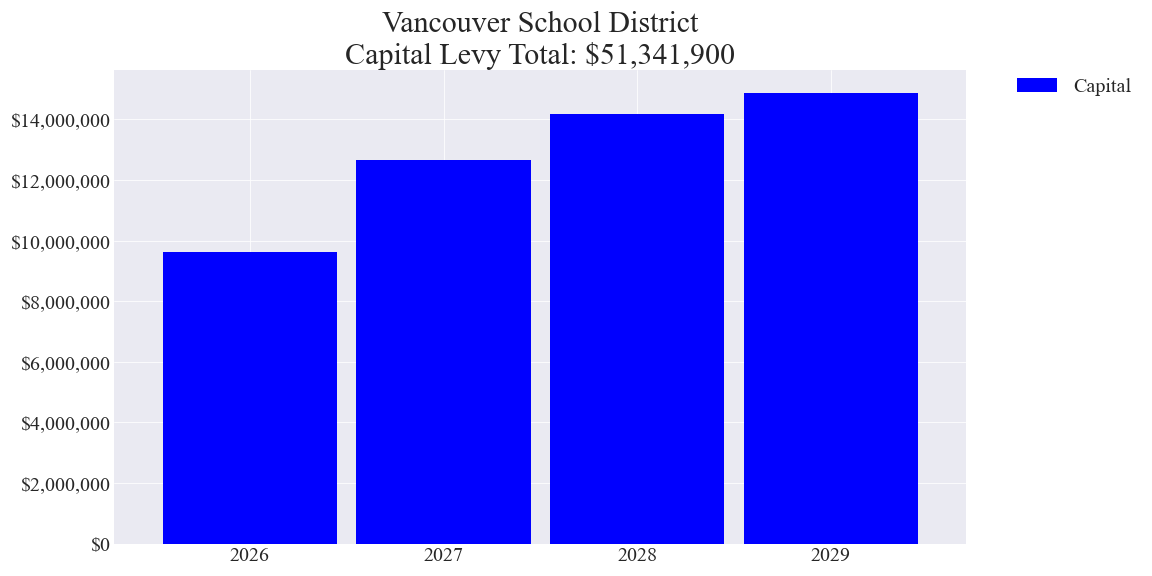
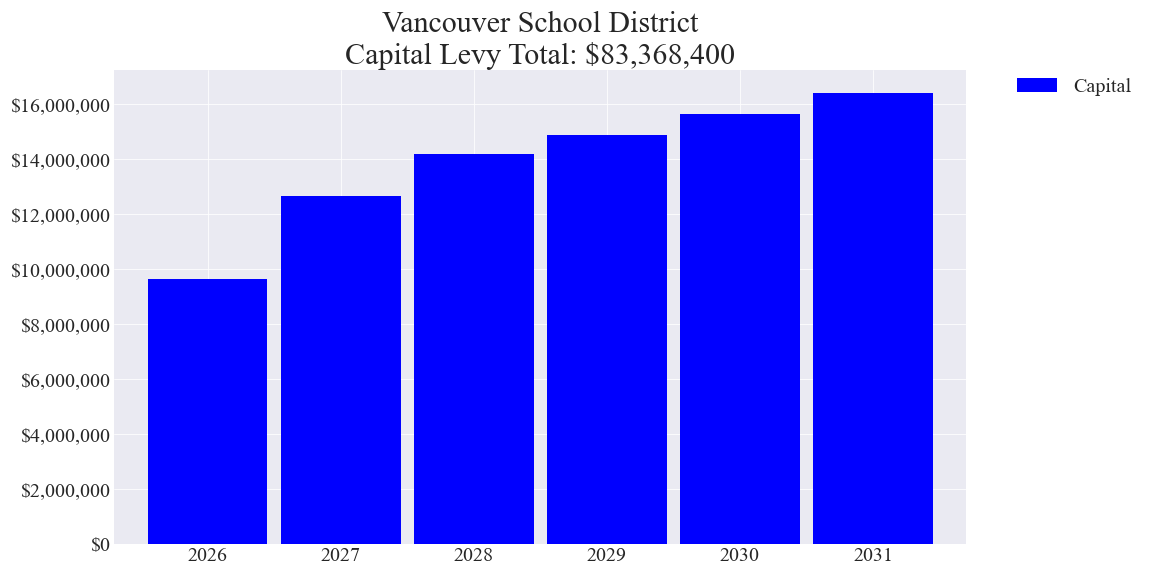
Updated elec 20250211
Corrected:
Vancouver

diff --git a/_includes/cost_estimates/20250211/VancouverCapitalLevyTable_20250211.html b/_includes/cost_estimates/20250211/VancouverCapitalLevyTable_20250211.html
@@ -72,6 +72,8 @@ table, th, td {
 			['2027', 12664500, 31054088568, 0.0, 0, 0, 0.0, 0, 0, 0, 0.0, 0.0, 0],
 			['2028', 14174200, 31054088568, 0.0, 0, 0, 0.0, 0, 0, 0, 0.0, 0.0, 0],
 			['2029', 14878700, 31054088568, 0.0, 0, 0, 0.0, 0, 0, 0, 0.0, 0.0, 0],
+			['2030', 15622700, 31054088568, 0.0, 0, 0, 0.0, 0, 0, 0, 0.0, 0.0, 0],
+			['2031', 16403800, 31054088568, 0.0, 0, 0, 0.0, 0, 0, 0, 0.0, 0.0, 0],
 
 		]);
 		

diff --git a/_includes/cost_estimates/20250211/Vancouver_Capital_20250211_Enhanced.html b/_includes/cost_estimates/20250211/Vancouver_Capital_20250211_Enhanced.html
@@ -37,6 +37,8 @@
 			['2027', 12664500],
 			['2028', 14174200],
 			['2029', 14878700],
+			['2030', 15622700],
+			['2031', 16403800],
 
 		]);
 
